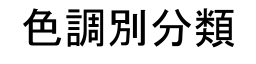
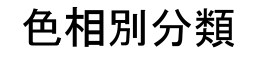
ジャンルプレートが正しく割り当てられた。

Changed region(s): [[0.25, 0.0938, 0.4062, 0.75]]

diff --git a/js/matrixengine-contents.js b/js/matrixengine-contents.js
@@ -405,6 +405,77 @@ MxeDefaultContents.prototype.createTextureCasts = function() {
 		this.RoomPlateTexture[i-1]=tex;		
 	}
 	
+	this.IDPlateTexture = new Array(5);
+	for(var i=1;i<=5;i++){
+		var tex = cast = this.createMxeTexture(this,118+i,"GenrePlate"+i);
+		cast.imageSrc="genreplate/id_"+i+".png";
+		cast.presetWidth=512;
+		cast.presetHeight=512;
+		cast.alphaType = MxeMaterial.def.HAS_TRANSPARENT|MxeMaterial.def.HAS_TRANSLUCENT;
+		cast.rotateCenter = F32A([0, 0, 0]);
+		bbinfo = cast.billboardInfo = this.createMxeBillboardInfo(this.createMxeMaterial(), this.createMxeSectorTextureInfo());
+		bbinfo.pos = F32A([0, 0, 0]);
+		bbinfo.siz = F32A([1, 1, 0.0]);
+		bbmat = bbinfo.material;
+		bbmat.color = F32A([1, 1, 1, 1]);
+		bbmat.textureInfo[0].cast = cast;
+		
+		this.IDPlateTexture[i-1]=tex;
+	}
+	
+	this.PricePlateTexture = new Array(5);
+	for(var i=1;i<=5;i++){
+		var tex = cast = this.createMxeTexture(this,123+i,"GenrePlate"+i);
+		cast.imageSrc="genreplate/price_"+i+".png";
+		cast.presetWidth=512;
+		cast.presetHeight=512;
+		cast.alphaType = MxeMaterial.def.HAS_TRANSPARENT|MxeMaterial.def.HAS_TRANSLUCENT;
+		cast.rotateCenter = F32A([0, 0, 0]);
+		bbinfo = cast.billboardInfo = this.createMxeBillboardInfo(this.createMxeMaterial(), this.createMxeSectorTextureInfo());
+		bbinfo.pos = F32A([0, 0, 0]);
+		bbinfo.siz = F32A([1, 1, 0.0]);
+		bbmat = bbinfo.material;
+		bbmat.color = F32A([1, 1, 1, 1]);
+		bbmat.textureInfo[0].cast = cast;
+		
+		this.PricePlateTexture[i-1]=tex;
+	}
+	
+	this.HuePlateTexture = new Array(5);
+	for(var i=1;i<=5;i++){
+		var tex = cast = this.createMxeTexture(this,128+i,"GenrePlate"+i);
+		cast.imageSrc="genreplate/hue_"+i+".png";
+		cast.presetWidth=512;
+		cast.presetHeight=512;
+		cast.alphaType = MxeMaterial.def.HAS_TRANSPARENT|MxeMaterial.def.HAS_TRANSLUCENT;
+		cast.rotateCenter = F32A([0, 0, 0]);
+		bbinfo = cast.billboardInfo = this.createMxeBillboardInfo(this.createMxeMaterial(), this.createMxeSectorTextureInfo());
+		bbinfo.pos = F32A([0, 0, 0]);
+		bbinfo.siz = F32A([1, 1, 0.0]);
+		bbmat = bbinfo.material;
+		bbmat.color = F32A([1, 1, 1, 1]);
+		bbmat.textureInfo[0].cast = cast;
+		
+		this.HuePlateTexture[i-1]=tex;
+	}
+	
+	{
+		var tex = cast = this.createMxeTexture(this,140+i,"GenrePlate"+i);
+		cast.imageSrc="genreplate/shuffledgenre.png";
+		cast.presetWidth=512;
+		cast.presetHeight=512;
+		cast.alphaType = MxeMaterial.def.HAS_TRANSPARENT|MxeMaterial.def.HAS_TRANSLUCENT;
+		cast.rotateCenter = F32A([0, 0, 0]);
+		bbinfo = cast.billboardInfo = this.createMxeBillboardInfo(this.createMxeMaterial(), this.createMxeSectorTextureInfo());
+		bbinfo.pos = F32A([0, 0, 0]);
+		bbinfo.siz = F32A([1, 1, 0.0]);
+		bbmat = bbinfo.material;
+		bbmat.color = F32A([1, 1, 1, 1]);
+		bbmat.textureInfo[0].cast = cast;
+		
+		this.ShuffledPlateTexture=tex;
+	}	
+	
 	this.InfoMapper = {};
     
 };
@@ -459,6 +530,12 @@ MxeDefaultContents.prototype.spread = function(line,dataArray){
 		state=(state+1)%2;
 	}
 };
+
+MxeDefaultContents.prototype.InitAllGenrePlates = function(){
+	for(var i=1;i<=5;i++){
+		this.scores[3].tracksL["R"+i+"Plate"].cast.sectors[0].material.textureInfo[0].cast = this.textureCasts[12];
+	}
+}
 
 MxeDefaultContents.prototype.InitAllPanels = function(){
 	var startLine = [1,41,81,121,161];
